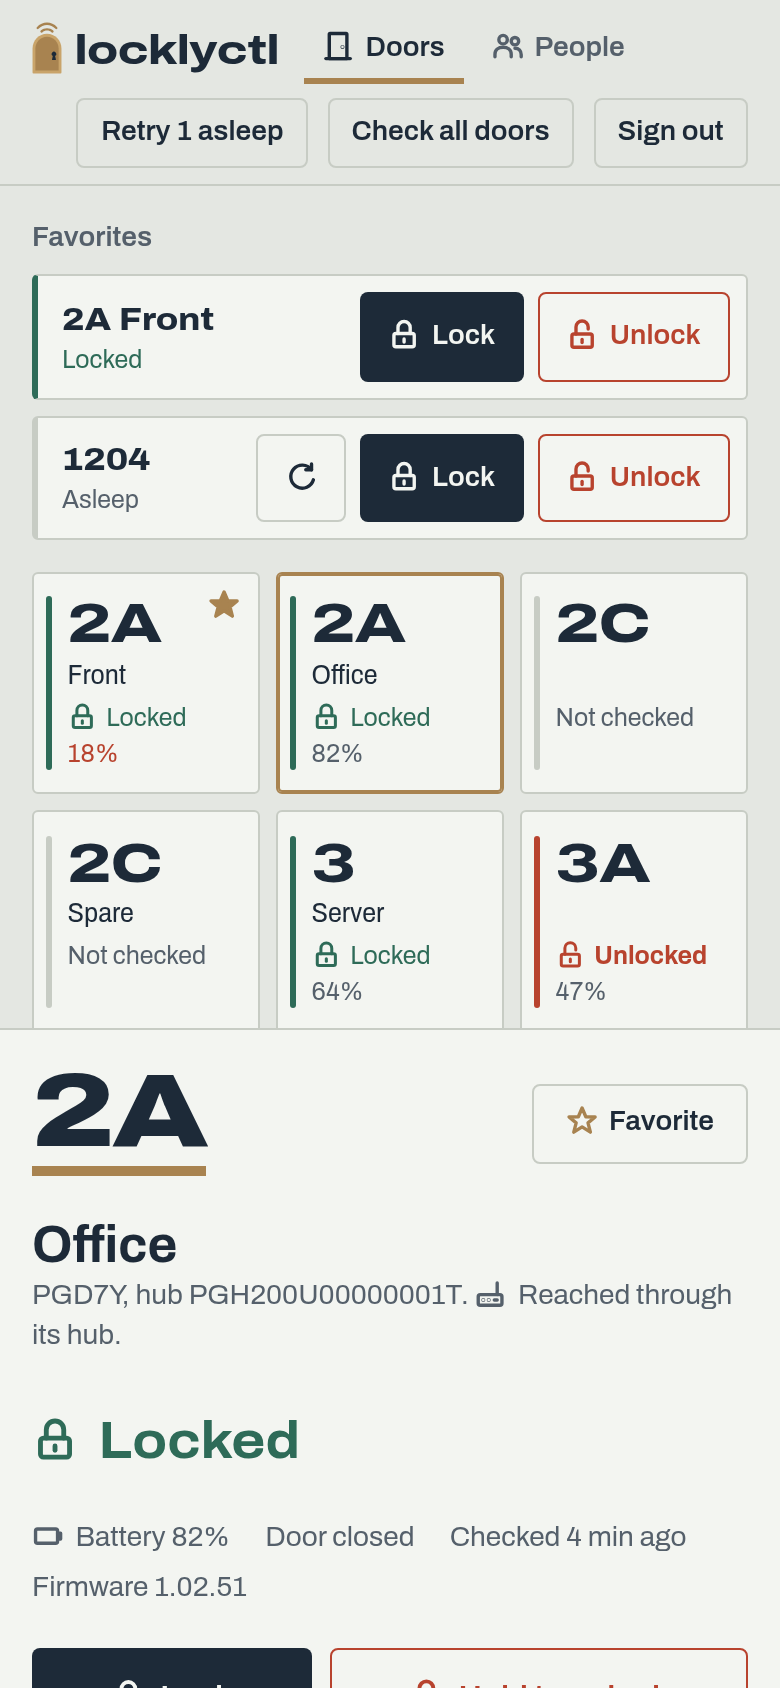
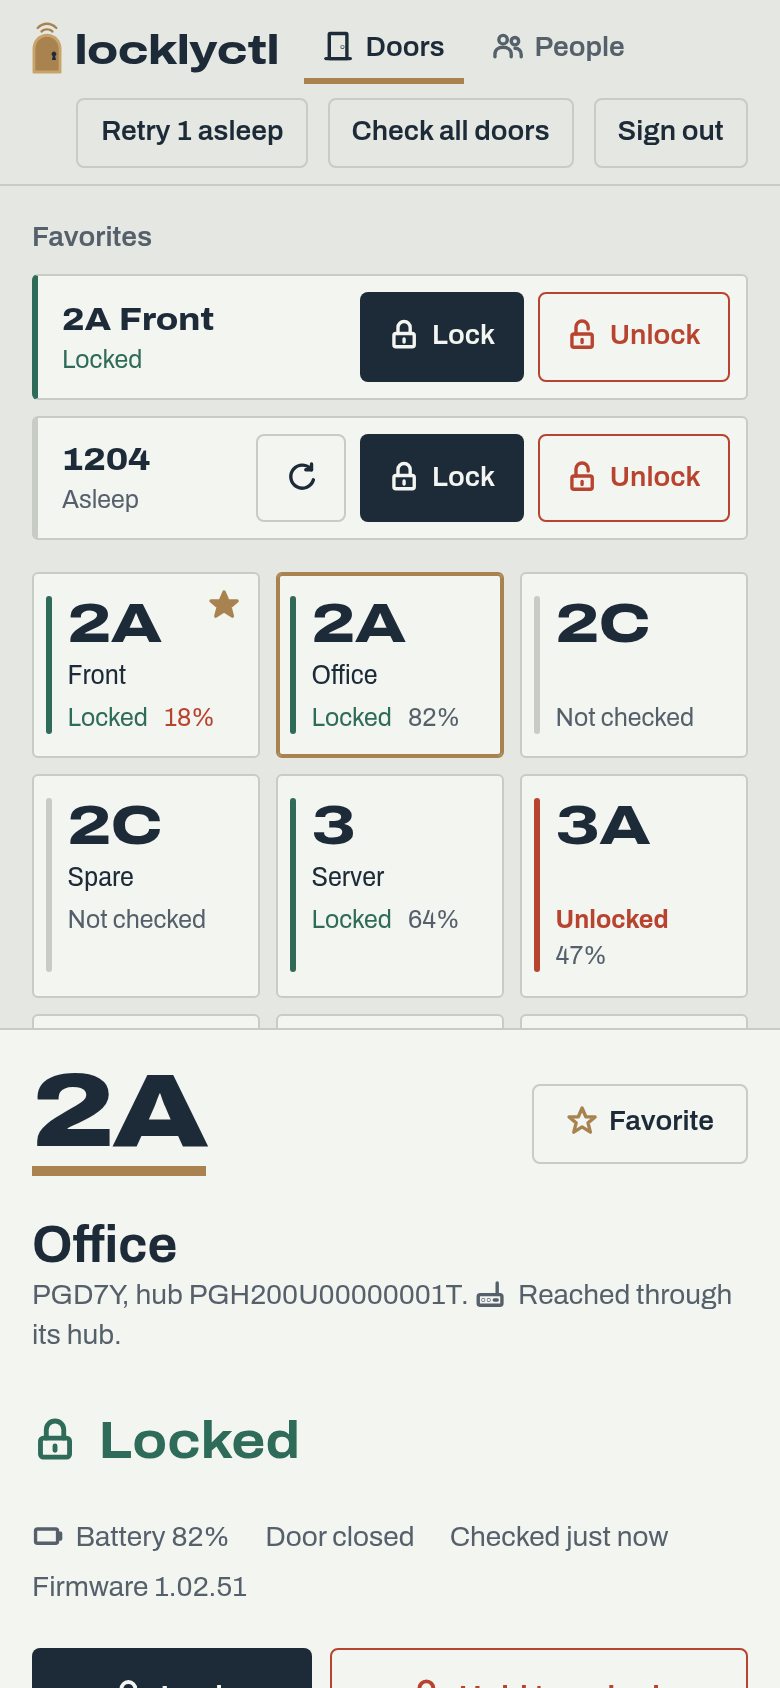
Show "Connecting..." when a door is clicked; Check all fills in door by door
Clicking a door (its plate or its favorite) now asks it for its live
status: the plate, the favorite row and the door panel say
"Connecting..." until it answers, then show the answer. Check all and
Retry asleep ask each door with its own call, six at a time as before,
so every door updates as soon as its own answer is in instead of all of
them at the end. Doors with no hub are left out of Check all (they
can't be reached from here) and the dialog says so. The check_all and
check_doors API calls, now unused, are removed.

Also:
- Lock, unlock and the other actions show what they're doing on the
  plate and in the door panel. A door still does one thing at a time:
  Lock and Unlock wait while it's connecting.
- An answer that arrives after signing out is dropped instead of being
  added to the door list.
- Keep unlocked and firmware install say the door is busy, instead of
  doing nothing, when it got busy while their dialog was open.
- The Activity tab no longer says "Nobody used this door" when Lockly's
  cloud has no record of it: the cloud only has what was uploaded to it.
- Phone plates drop the status icon: since the icons commit, "Bluetooth
  only" with its icon ran past the plate at three-column widths. The
  screenshot check now also fails when plate text runs past its plate;
  it failed on this before the fix and passes with it.

Tried with the browser mock in Chrome in real time (clicking doors,
[…]

diff --git a/locklyctl/gui/web/app.js b/locklyctl/gui/web/app.js
@@ -121,7 +121,8 @@ const doorLabel = (v) => (v.unit ? `${v.unit}${v.rest ? " " + v.rest : ""}` : v.
 
 function updateLock(view) {
   const i = locks.findIndex((l) => l.id === view.id);
-  if (i >= 0) locks[i] = view; else locks.push(view);
+  if (i < 0) return;        // an answer that came in after signing out, or into another account
+  locks[i] = view;
   renderPlates();
   renderFavs();
   if (view.id === currentId) renderDoor();
@@ -203,17 +204,16 @@ $("sign-out").addEventListener("click", async () => {
 });
 
 $("check-all").addEventListener("click", async (ev) => {
-  const ok = await confirmDialog(`Check all ${locks.length} doors?`,
-    "Each lock wakes up to answer, and beeps. Locks that are asleep may not answer.", "Check all doors");
+  const doors = locks.filter((v) => v.route !== "bluetooth");
+  const left = locks.length - doors.length;
+  const ok = await confirmDialog(`Check all ${doors.length} doors?`,
+    "Each lock wakes up to answer, and beeps. Locks that are asleep may not answer."
+    + (left ? ` ${left} ${left === 1 ? "door has no hub, so it's" : "doors have no hub, so they're"} left out.` : ""),
+    "Check all doors");
   if (!ok) return;
   await busy(ev.currentTarget, async () => {
-    toast(`Checking ${locks.length} doors…`);
-    try {
-      const fresh = await call("check_all");
-      fresh.forEach(updateLock);
-      const answered = fresh.filter((l) => l.state === "locked" || l.state === "unlocked").length;
-      toast(`${answered} of ${fresh.length} doors answered.`);
-    } catch (e) { toast(e.message, true); }
+    toast(`Checking ${doors.length} doors…`);
+    reportChecks(await checkDoors(doors), "doors");
   });
 });
 
@@ -223,17 +223,19 @@ function renderPlates() {
   const items = locks.map((v) => {
     const num = v.unit || v.name;
     const batt = v.battery != null ? `${v.battery}%` : v.lowBattery ? "Low battery" : null;
+    const doing = pending.get(v.id);
+    const word = doing ? DOING_SHORT[doing] : STATE_WORD[stateOf(v)];
     return h("li", {},
       h("button", {
-        class: "plate", type: "button", "data-state": stateOf(v),
+        class: "plate", type: "button", "data-state": stateOf(v), "aria-busy": doing ? "true" : null,
         "aria-current": v.id === currentId ? "true" : "false",
-        "aria-label": `${doorLabel(v)}, ${STATE_WORD[stateOf(v)]}${v.favorite ? ", favorite" : ""}`,
-        onclick: () => selectLock(v.id),
+        "aria-label": `${doorLabel(v)}, ${word}${v.favorite ? ", favorite" : ""}`,
+        onclick: () => selectLock(v.id, true),
       },
         h("span", { class: "plate-num" + (v.unit ? "" : " wordy") }, num),
         h("span", { class: "plate-rest" }, v.unit ? v.rest : ""),
         h("span", { class: "plate-state" },
-          h("span", { class: "plate-word" }, stateIcon(stateOf(v)), STATE_WORD[stateOf(v)]),
+          h("span", { class: "plate-word" }, doing ? icon(v.route) : stateIcon(stateOf(v)), word),
           batt && h("span", { class: "plate-batt" + (v.lowBattery || (v.battery != null && v.battery <= 20) ? " low" : "") }, batt)),
         v.favorite && h("span", { class: "plate-star", "aria-hidden": "true" }, icon("favorite-on"))));
   });
@@ -251,24 +253,56 @@ function renderRetry() {
 }
 
 $("retry-asleep").addEventListener("click", async (ev) => {
-  const ids = asleepDoors().map((v) => v.id);
-  if (!ids.length) return;
+  const doors = asleepDoors();
+  if (!doors.length) return;
   await busy(ev.currentTarget, async () => {
-    toast(`Asking ${ids.length} ${ids.length === 1 ? "door" : "doors"} again…`);
-    try {
-      const fresh = await call("check_doors", ids);
-      fresh.forEach(updateLock);
-      const answered = fresh.filter((l) => l.state === "locked" || l.state === "unlocked").length;
-      toast(`${answered} of ${fresh.length} answered.`, answered === 0);
-    } catch (e) { toast(e.message, true); }
+    toast(`Asking ${doors.length} ${doors.length === 1 ? "door" : "doors"} again…`);
+    reportChecks(await checkDoors(doors), "");
   });
 });
 
+// Ask doors for their live status, CHECK_AT_ONCE at a time. Each door shows
+// "Connecting…" from the start and updates as soon as its own answer is in.
+// Doors with no hub, and doors busy with something else, are skipped.
+const CHECK_AT_ONCE = 6;      // as many at once as LocklyClient.refresh_all_status asks
+async function checkDoors(doors) {
+  const queue = doors.filter((v) => v.route !== "bluetooth" && !pending.has(v.id));
+  const asked = queue.length;
+  queue.forEach((v) => pending.set(v.id, "check"));
+  renderPlates();
+  renderFavs();
+  if (queue.some((v) => v.id === currentId)) renderDoor();
+  const fresh = [];
+  const failed = [];
+  const worker = async () => {
+    for (let v = queue.shift(); v; v = queue.shift()) {
+      let view = null;
+      try { view = await call("check", v.id); }
+      catch (e) { failed.push(`${doorLabel(v)}: ${e.message}`); }
+      pending.delete(v.id);
+      if (view) { fresh.push(view); updateLock(view); } else refreshControls(v.id);
+    }
+  };
+  await Promise.all(Array.from({ length: Math.min(CHECK_AT_ONCE, asked) }, worker));
+  return { asked, fresh, failed };
+}
+
+function reportChecks(r, noun) {
+  if (!r.asked) { toast("Those doors are busy with something else right now."); return; }
+  if (r.failed.length) {
+    toast(r.failed.length === 1 ? r.failed[0] : `${r.failed.length} doors couldn't be asked. ${r.failed[0]}`, true);
+    return;
+  }
+  const answered = r.fresh.filter((l) => l.state === "locked" || l.state === "unlocked").length;
+  toast(`${answered} of ${r.asked}${noun ? " " + noun : ""} answered.`, answered === 0);
+}
+
 // ── favorites: one tap to lock or unlock, without opening the door ─────
 
-const pending = new Map();    // lock id → "lock" | "unlock" | "check" while it's out
-const DOING = { lock: "Locking…", unlock: "Unlocking…", check: "Checking…", keep: "Setting it to stay unlocked…",
+const pending = new Map();    // lock id → what's being done to it while that's out (a DOING key)
+const DOING = { lock: "Locking…", unlock: "Unlocking…", check: "Connecting…", keep: "Setting it to stay unlocked…",
   firmware: "Updating firmware…" };
+const DOING_SHORT = { ...DOING, keep: "Setting…", firmware: "Updating…" };   // short enough for a plate
 
 function renderFavs() {
   const favs = locks.filter((v) => v.favorite);
@@ -276,10 +310,10 @@ function renderFavs() {
   $("fav-list").replaceChildren(...favs.map((v) => {
     const st = stateOf(v);
     const off = pending.has(v.id) || v.route === "bluetooth";
-    return h("li", { class: "fav", "data-state": st },
+    return h("li", { class: "fav", "data-state": st, "aria-busy": pending.has(v.id) ? "true" : null },
       h("button", {
         class: "fav-door", type: "button", "aria-current": v.id === currentId ? "true" : "false",
-        onclick: () => selectLock(v.id),
+        onclick: () => selectLock(v.id, true),
       },
         h("span", { class: "fav-name" }, doorLabel(v)),
         h("span", { class: "fav-state" }, DOING[pending.get(v.id)] || STATE_WORD[st])),
@@ -303,7 +337,7 @@ async function runCommand(v, kind) {
   refreshControls(v.id);
   try {
     if (kind === "check") {
-      toast(`Waking ${label}…`);
+      toast(`Connecting to ${label}…`);
       const view = await call("check", v.id);
       updateLock(view);
       toast(view.state === "asleep" ? `${label} didn't answer.` : `${label}: ${STATE_WORD[view.state]}.`,
@@ -321,12 +355,21 @@ async function runCommand(v, kind) {
   }
 }
 
+// After a confirm dialog: the door may have got busy while it was open.
+function busyNow(v) {
+  if (!pending.has(v.id)) return false;
+  toast(`${doorLabel(v)} is busy (${DOING[pending.get(v.id)]}). Try again when that's done.`, true);
+  return true;
+}
+
 function refreshControls(id) {
+  renderPlates();
   renderFavs();
   if (id === currentId) renderDoor();
 }
 
-function selectLock(id) {
+// connect: the door was clicked, so also ask it for its live status.
+function selectLock(id, connect = false) {
   const changed = id !== currentId;
   currentId = id;
   renderPlates();
@@ -336,6 +379,8 @@ function selectLock(id) {
     resetSchedules();
     loadTab(activeTab);
   }
+  const v = current();
+  if (connect && v) checkDoors([v]).then((r) => { if (r.failed.length) toast(r.failed[0], true); });
 }
 
 // ── the door panel ─────────────────────────────────────────────────────
@@ -358,11 +403,12 @@ function renderDoor() {
   fav.title = noRoute && !v.favorite ? "This door has no hub, so it can only be opened over Bluetooth." : "";
 
   const st = $("d-state");
-  st.dataset.state = v.state;
-  st.replaceChildren(stateIcon(stateOf(v)), v.route === "bluetooth" ? "No hub — only reachable over Bluetooth"
-    : v.state === "asleep" ? "Didn't answer (asleep or offline)"
-      : v.state === "unknown" ? "Status not checked yet" : STATE_WORD[v.state]);
-  st.dataset.state = v.route === "bluetooth" ? "unknown" : v.state;
+  const doing = pending.get(v.id);
+  st.dataset.state = doing ? "busy" : v.route === "bluetooth" ? "unknown" : v.state;
+  st.replaceChildren(...(doing ? [icon(v.route), DOING[doing]]
+    : [stateIcon(stateOf(v)), v.route === "bluetooth" ? "No hub — only reachable over Bluetooth"
+      : v.state === "asleep" ? "Didn't answer (asleep or offline)"
+        : v.state === "unknown" ? "Status not checked yet" : STATE_WORD[v.state]]));
 
   const facts = [];
   if (v.battery != null) facts.push(h("li", { class: v.battery <= 20 ? "warn" : "" }, icon("battery"), `Battery ${v.battery}%`));
@@ -412,7 +458,7 @@ async function keepUnlocked(v, minutes) {
   const ok = await confirmDialog(`Keep ${doorLabel(v)} unlocked for ${hoursText(minutes)}?`,
     "It opens within about 20 seconds and locks again by itself when the time is up, even with this app closed.",
     "Keep unlocked");
-  if (!ok || pending.has(v.id)) return;
+  if (!ok || busyNow(v)) return;
   pending.set(v.id, "keep");
   refreshControls(v.id);
   toast(`Setting ${doorLabel(v)} to stay unlocked…`);
@@ -539,7 +585,8 @@ async function loadActivity() {
     const events = await call("activity", id);
     if (id !== currentId) return;
     if (!events.length) {
-      panel.replaceChildren(h("p", { class: "muted" }, "Nobody used this door in the last 7 days."));
+      panel.replaceChildren(h("p", { class: "muted" }, "Lockly's cloud has no record of this door in the last 7 days. "
+        + "That doesn't mean nobody used it: the cloud only has what was uploaded to it."));
       return;
     }
     panel.replaceChildren(h("table", { class: "log" },
@@ -802,7 +849,7 @@ async function installFirmware(v, install) {
   const ok = await confirmDialog(`Install new firmware on ${doorLabel(v)}?`,
     `${list}. The lock downloads the files and installs them itself, then restarts. Leave the door alone `
     + "until this says it's done; it can take several minutes.", "Install");
-  if (!ok || pending.has(v.id)) return;
+  if (!ok || busyNow(v)) return;
   pending.set(v.id, "firmware");
   refreshControls(v.id);
   const show = (st) => {

diff --git a/tests/gui/mock.js b/tests/gui/mock.js
@@ -38,9 +38,12 @@ window.pywebview = {
     async sign_in(email) { await wait(400); return { signedIn: true, email }; },
     async sign_out() { return { signedIn: false, email: "owner@example.com" }; },
     async locks() { await wait(150); return locks.map((l) => ({ ...l })); },
-    async check_all() { await wait(800); return locks.map((l) => ({ ...l, state: l.state === "unknown" ? "asleep" : l.state, checkedAt: Date.now() / 1000 })); },
-    async check(id) { await wait(600); return { ...find(id), checkedAt: Date.now() / 1000 }; },
-    async check_doors(ids) { await wait(900); return ids.map((id) => Object.assign(find(id), { state: "locked", checkedAt: Date.now() / 1000 })).map((l) => ({ ...l })); },
+    async check(id) {                      // doors answer at different speeds; some stay asleep
+      const l = find(id), n = parseInt(id, 16);
+      await wait(500 + (n % 7) * 350);
+      if (l.state === "unknown" || l.state === "asleep") l.state = n % 3 ? "locked" : "asleep";
+      return { ...l, cached: false, checkedAt: Date.now() / 1000 };
+    },
     async lock(id) { await wait(700); Object.assign(find(id), { state: "locked" }); return { ok: true, detail: "", lock: { ...find(id) } }; },
     async unlock(id) { await wait(700); Object.assign(find(id), { state: "unlocked" }); return { ok: true, detail: "", lock: { ...find(id) } }; },
     async keep_unlocked(id, minutes) { await wait(500); const until = new Date(Date.now() + minutes * 60000).toTimeString().slice(0, 5); Object.assign(find(id), { keepUnlockedUntil: until, state: "unlocked" }); return { ok: true, until, detail: "", lock: { ...find(id) } }; },
@@ -117,15 +120,18 @@ setTimeout(() => {
   if (scene === "dark-detail") { click('.plate[aria-label^="3A"]'); }
   if (scene.startsWith("firmware")) { click('.plate[aria-label^="2A Front"]'); click("#tab-connection"); setTimeout(() => click("#btn-firmware"), 200); }
   if (scene === "firmware-install") { setTimeout(() => { click(".fw-install button"); setTimeout(() => click("#confirm-ok"), 300); }, 1200); }
+  // Clicking a door connects to it first; Unlock can be held once that's done.
+  const whenUnlockable = (fn) => { const b = document.getElementById("btn-unlock"); b.disabled ? setTimeout(() => whenUnlockable(fn), 100) : fn(b); };
   if (scene === "hold") {
     click('.plate[aria-label^="1204"]');
-    document.getElementById("btn-unlock").dispatchEvent(new PointerEvent("pointerdown", { button: 0, pointerId: 1, bubbles: true }));
+    whenUnlockable((b) => b.dispatchEvent(new PointerEvent("pointerdown", { button: 0, pointerId: 1, bubbles: true })));
   }
   if (scene === "hold-cancel") {
     click('.plate[aria-label^="1204"]');
-    const b = document.getElementById("btn-unlock");
-    b.dispatchEvent(new PointerEvent("pointerdown", { button: 0, pointerId: 1, bubbles: true }));
-    setTimeout(() => b.dispatchEvent(new PointerEvent("pointerup", { button: 0, pointerId: 1, bubbles: true })), 400);
+    whenUnlockable((b) => {
+      b.dispatchEvent(new PointerEvent("pointerdown", { button: 0, pointerId: 1, bubbles: true }));
+      setTimeout(() => b.dispatchEvent(new PointerEvent("pointerup", { button: 0, pointerId: 1, bubbles: true })), 400);
+    });
   }
   if (scene === "preview") {
     click('.plate[aria-label^="4C,"]'); click("#tab-schedules");

diff --git a/locklyctl/gui/web/style.css b/locklyctl/gui/web/style.css
@@ -174,6 +174,12 @@ h1, h2, p { margin: 0; }
 .plate-word { white-space: nowrap; }
 .plate[data-state="locked"] .plate-word { color: var(--locked); }
 .plate[data-state="unlocked"] .plate-word { color: var(--unlocked); font-weight: 700; }
+.plate[aria-busy="true"] .plate-word { color: var(--ink-soft); font-weight: 400; }
+/* while a door is being asked, its latch and the route icon pulse */
+.plate[aria-busy="true"]::before, .plate[aria-busy="true"] .plate-word .i, .state-word[data-state="busy"] .i {
+  animation: asking 1.1s ease-in-out infinite alternate;
+}
+@keyframes asking { to { opacity: 0.25; } }
 .plate-batt.low { color: var(--unlocked); }
 .plate-star { position: absolute; top: 0.45rem; right: 0.55rem; color: var(--brass); font-size: var(--fs-sm); line-height: 1; }
 
@@ -197,6 +203,7 @@ h1, h2, p { margin: 0; }
 .fav-state { font-size: var(--fs-xs); color: var(--ink-soft); }
 .fav[data-state="locked"] .fav-state { color: var(--locked); }
 .fav[data-state="unlocked"] .fav-state { color: var(--unlocked); font-weight: 700; }
+.fav[aria-busy="true"] .fav-state { color: var(--ink-soft); font-weight: 400; }
 .fav-actions { display: flex; gap: 0.4rem; }
 .fav-actions .btn { padding: 0.6rem 0.9rem; }
 .btn-open { border-color: var(--unlocked); color: var(--unlocked); }
@@ -221,7 +228,7 @@ h1, h2, p { margin: 0; }
 .state-word { font-size: var(--fs-xl); font-weight: 700; font-stretch: 112%; }
 .state-word[data-state="locked"] { color: var(--locked); }
 .state-word[data-state="unlocked"] { color: var(--unlocked); }
-.state-word[data-state="unknown"], .state-word[data-state="asleep"] { color: var(--ink-soft); font-weight: 600; }
+.state-word[data-state="unknown"], .state-word[data-state="asleep"], .state-word[data-state="busy"] { color: var(--ink-soft); font-weight: 600; }
 .facts { list-style: none; margin: 0; padding: 0; display: flex; flex-wrap: wrap; gap: 0.25rem 1.1rem; font-size: var(--fs-sm); color: var(--ink-soft); }
 .facts .warn { color: var(--unlocked); }
 
@@ -397,6 +404,7 @@ input[type="checkbox"], input[type="radio"] { accent-color: var(--ink); }
   .topbar-right .i { display: none; }     /* the words fit a phone; words plus icons don't */
   .cabinet, .roster { max-height: 34vh; }
   .plates { grid-template-columns: repeat(auto-fill, minmax(7rem, 1fr)); gap: 0.5rem; }
+  .plate-word .i { display: none; }       /* a 7rem plate fits "Bluetooth only" or "Connecting…", not the icon too; the latch shows the state */
   :root { --plate-num: 1.75rem; --door-num: 3.25rem; }
   .tabs { gap: 1.1rem; overflow-x: auto; scrollbar-width: none; white-space: nowrap; }
   .tabs [role="tab"] { flex: none; }
@@ -411,6 +419,7 @@ input[type="checkbox"], input[type="radio"] { accent-color: var(--ink); }
 
 @media (prefers-reduced-motion: reduce) {
   .toast { transition: none; }
+  .plate[aria-busy="true"]::before, .plate[aria-busy="true"] .plate-word .i, .state-word[data-state="busy"] .i { animation: none; }
   .btn-hold.holding .hold-fill { transition-duration: 900ms; } /* the fill is the timer; keep it, it's user-driven */
 }
 

diff --git a/locklyctl/gui/web/index.html b/locklyctl/gui/web/index.html
@@ -107,7 +107,7 @@
           </header>
 
           <div class="door-state">
-            <p class="state-word" id="d-state"></p>
+            <p class="state-word" id="d-state" aria-live="polite"></p>
             <ul class="facts" id="d-facts"></ul>
           </div>
 

diff --git a/locklyctl/gui/api.py b/locklyctl/gui/api.py
@@ -312,23 +312,10 @@ class Api:
         c.prime_cached_status(c.locks)
         return [self._view(lk, cfg) for lk in c.locks]
 
-    def check_all(self) -> list[dict]:
-        """Live status for every lock. Wakes them all (they beep)."""
-        c = self._c()
-        c.refresh_all_status(c.locks)
-        cfg = config.load_config()
-        return [self._view(lk, cfg) for lk in c.locks]
-
-    def check_doors(self, lock_ids: list[str]) -> list[dict]:
-        """Live status for some locks, e.g. the ones that seemed asleep. Wakes them."""
-        c = self._c()
-        wanted = [self._lock(i) for i in lock_ids]
-        c.refresh_all_status(wanted)
-        cfg = config.load_config()
-        return [self._view(lk, cfg) for lk in wanted]
-
     def check(self, lock_id: str) -> dict:
-        """Live status for one lock (wakes it)."""
+        """Live status for one lock (wakes it, and it beeps). The GUI asks
+        several doors at once with parallel calls, so each door's answer
+        shows as soon as it's in."""
         lock = self._lock(lock_id)
         self._c().query_status(lock)
         return self._view(lock)
